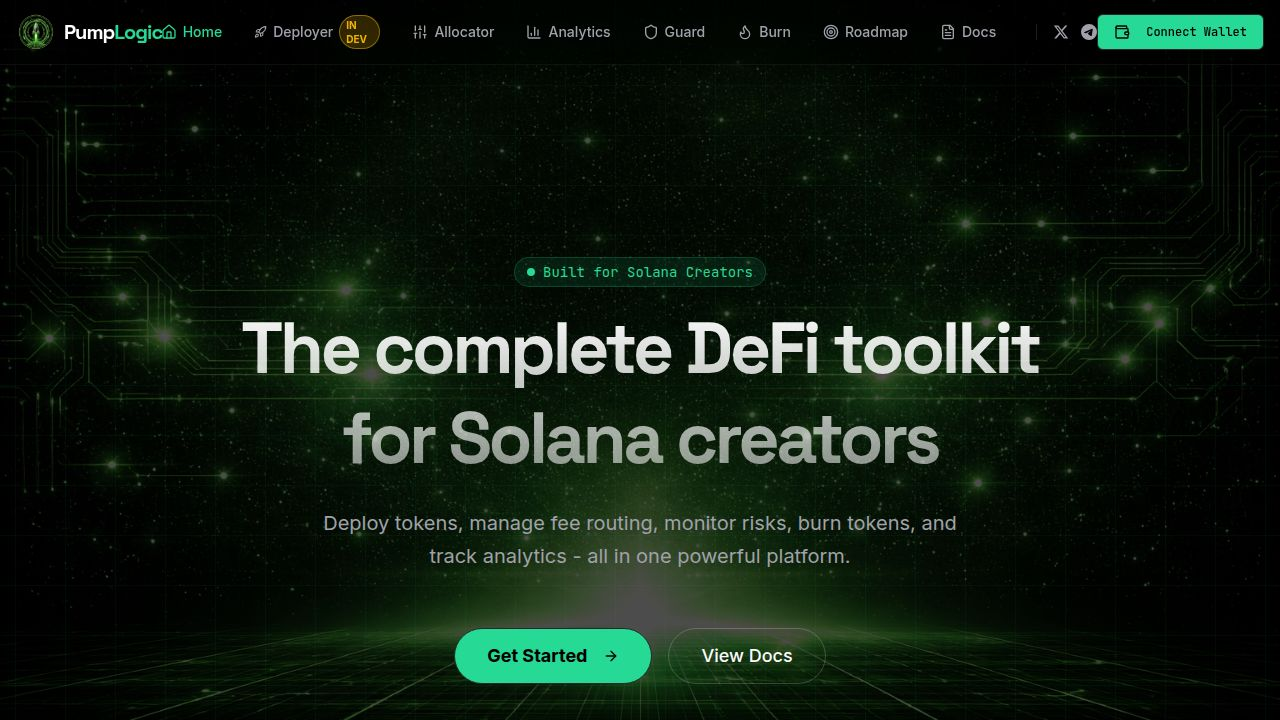
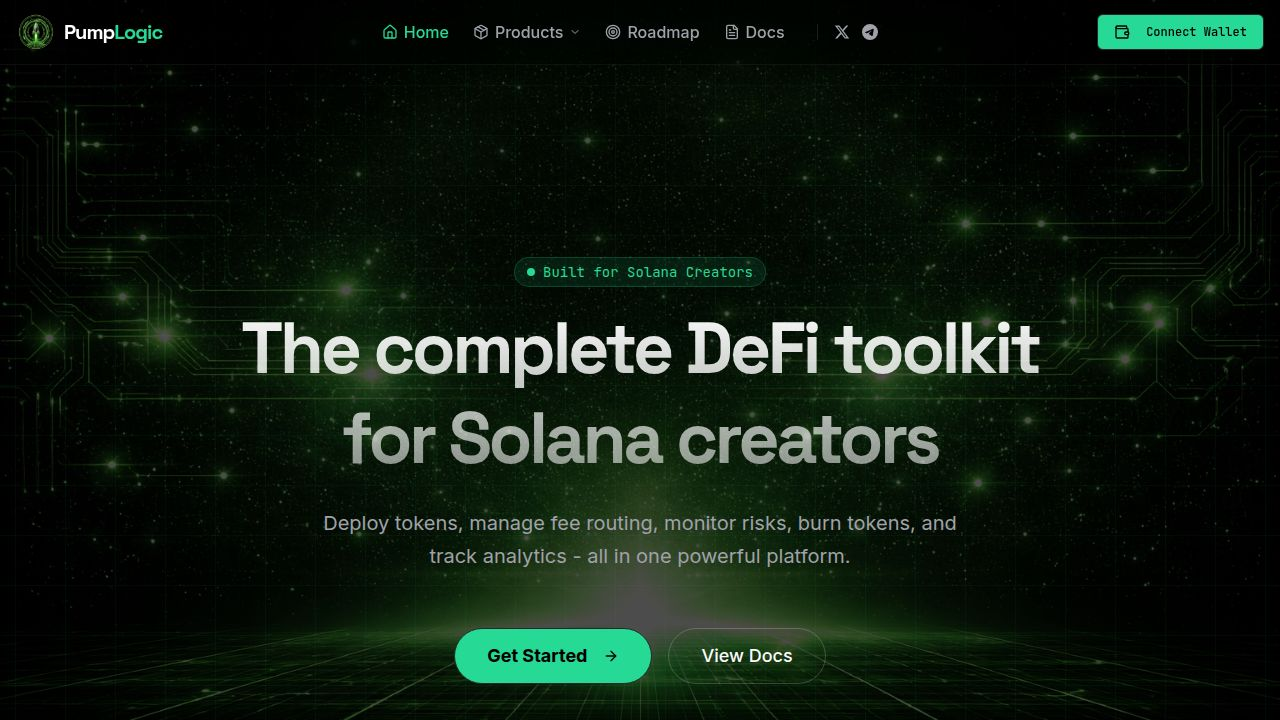
Increase the size of navigation bar text elements
Update text styles in Navbar.tsx from `text-sm` to `text-base` for Home, Products dropdown trigger, Roadmap, and Docs links.

Replit-Commit-Author: Agent
Replit-Commit-Session-Id: 452156ad-1957-42b2-936c-8bac16532e30
Replit-Commit-Checkpoint-Type: full_checkpoint
Replit-Commit-Event-Id: 14dc1a8f-ee66-4399-9c67-4f98c8b1f205
Replit-Commit-Screenshot-Url: https://storage.googleapis.com/screenshot-production-us-central1/2bad6cc9-0753-4a81-a241-f469247d4355/452156ad-1957-42b2-936c-8bac16532e30/RsSCSaP
Replit-Helium-Checkpoint-Created: true

Changed region(s): [[0.125, 0.0, 0.7812, 0.0611], [0.8125, 0.0306, 0.875, 0.0611]]

diff --git a/client/src/components/layout/Navbar.tsx b/client/src/components/layout/Navbar.tsx
@@ -82,7 +82,7 @@ export function Navbar() {
         <div className="hidden md:flex items-center gap-6">
           <Link 
             href="/" 
-            className={cn("text-sm font-medium transition-colors hover:text-primary flex items-center gap-1.5", location === "/" ? "text-primary" : "text-muted-foreground")}
+            className={cn("text-base font-medium transition-colors hover:text-primary flex items-center gap-1.5", location === "/" ? "text-primary" : "text-muted-foreground")}
           >
             <Home className="h-4 w-4" />
             Home
@@ -91,7 +91,7 @@ export function Navbar() {
           {/* Products Dropdown */}
           <DropdownMenu>
             <DropdownMenuTrigger className={cn(
-              "text-sm font-medium transition-colors hover:text-primary flex items-center gap-1.5 outline-none",
+              "text-base font-medium transition-colors hover:text-primary flex items-center gap-1.5 outline-none",
               ["/deployer", "/app", "/analytics", "/guard", "/burn"].includes(location) ? "text-primary" : "text-muted-foreground"
             )}>
               <Package className="h-4 w-4" />
@@ -135,14 +135,14 @@ export function Navbar() {
 
           <Link 
             href="/roadmap" 
-            className={cn("text-sm font-medium transition-colors hover:text-primary flex items-center gap-1.5", location === "/roadmap" ? "text-primary" : "text-muted-foreground")}
+            className={cn("text-base font-medium transition-colors hover:text-primary flex items-center gap-1.5", location === "/roadmap" ? "text-primary" : "text-muted-foreground")}
           >
             <Target className="h-4 w-4" />
             Roadmap
           </Link>
           <Link 
             href="/docs" 
-            className={cn("text-sm font-medium transition-colors hover:text-primary flex items-center gap-1.5", location === "/docs" ? "text-primary" : "text-muted-foreground")}
+            className={cn("text-base font-medium transition-colors hover:text-primary flex items-center gap-1.5", location === "/docs" ? "text-primary" : "text-muted-foreground")}
           >
             <FileText className="h-4 w-4" />
             Docs
